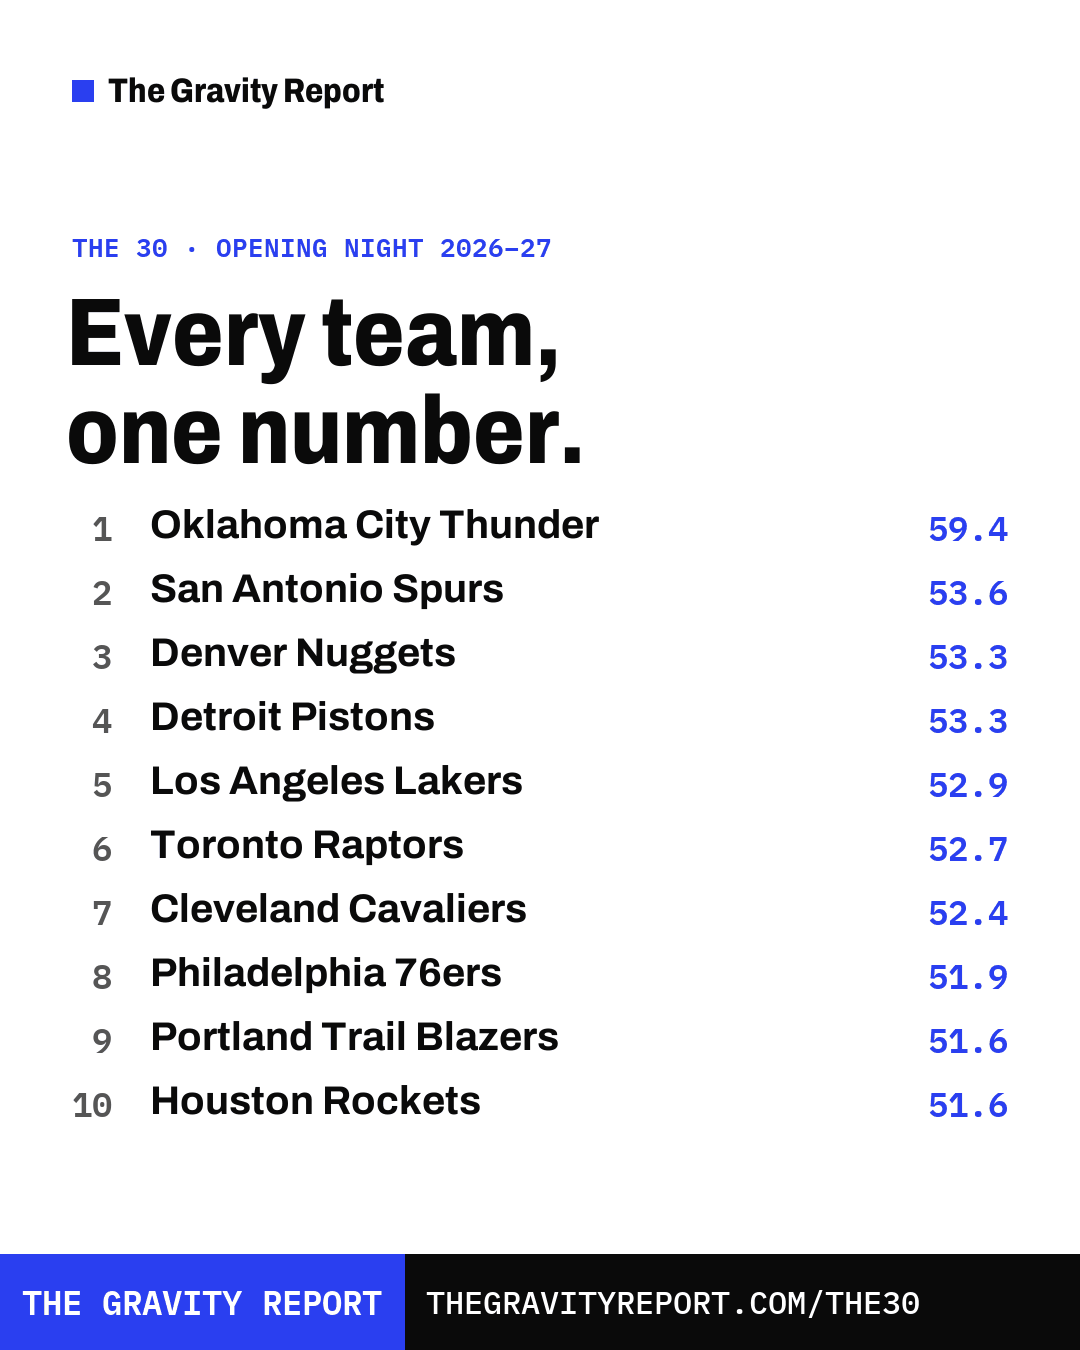
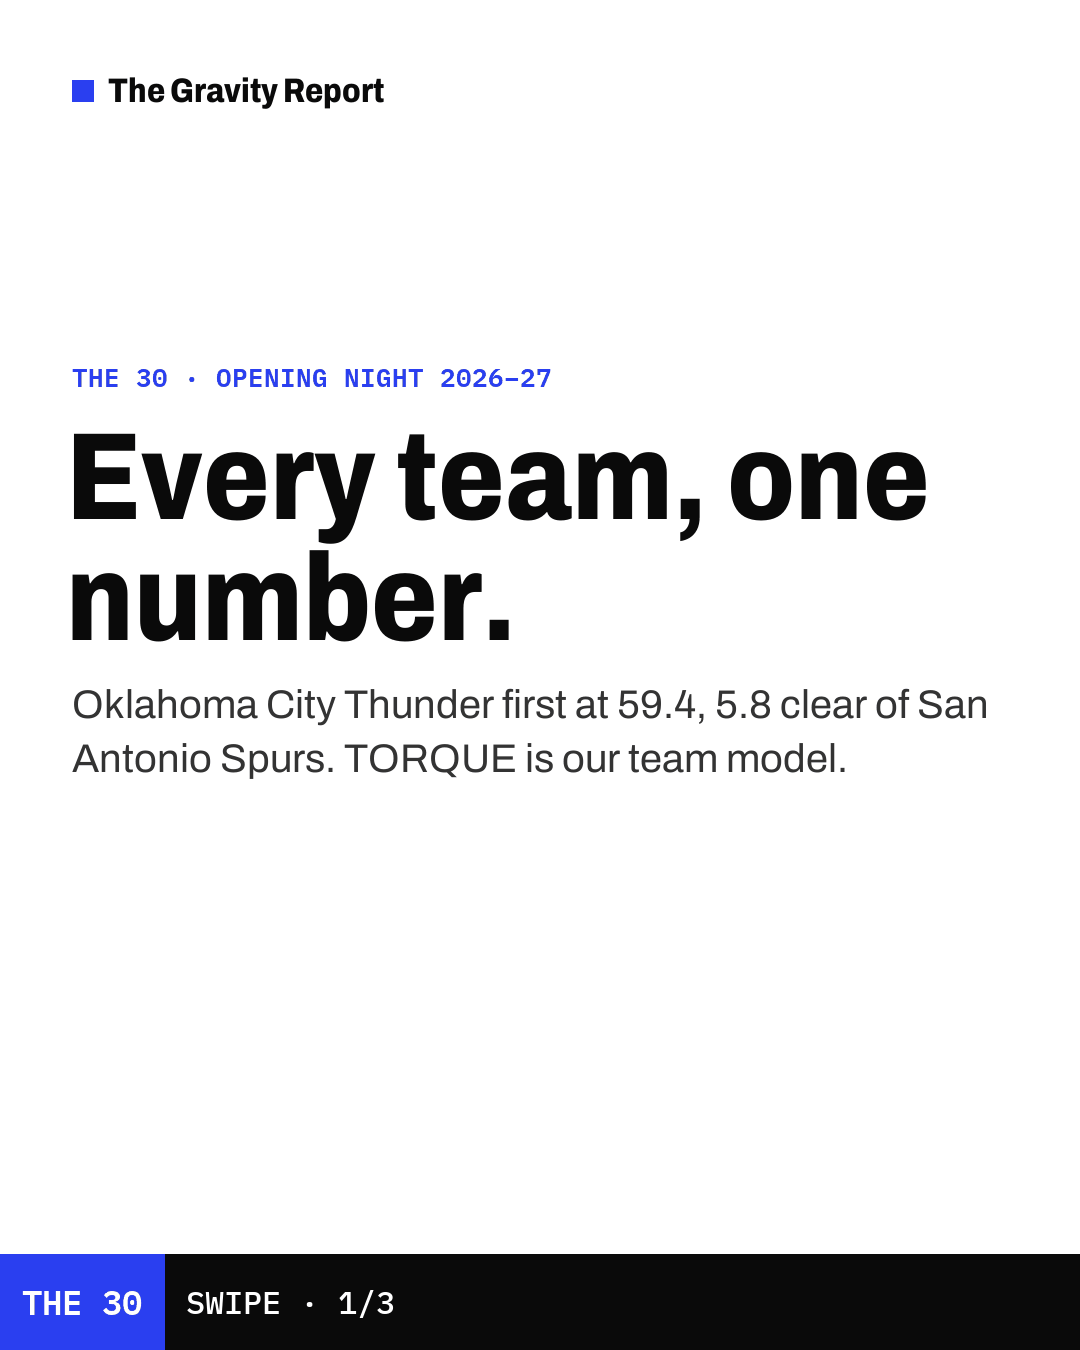
Instagram: carousels instead of single images (team posts 4 slides: cover with the post's angle, table, best-player fact, link; The 30 3 slides); one Instagram post a day (noon article wins over the 6 PM team post); player of the day skips Instagram until it has a Reel

diff --git a/social/pipeline.js b/social/pipeline.js
@@ -161,7 +161,9 @@ export async function maybeQueuePotd(env, nowMs, { fetchImpl = fetch, schedule =
   if (!best) { await mark("no big night"); return null; }
   const kit = potdKitFromPerformance(best.p, best.p.team, best.g, SITE_URL, n);
   const at = Math.max(nowMs, etToUtcMs(date, POTD_HOUR_ET));
-  await queueSeries(env, kitId, kit, at, nowMs);
+  // No Instagram for player of the day until it has a format of its own (a Reel): a single card
+  // image does nothing on Instagram, and it's posted by hand.
+  await queueSeries(env, kitId, kit, at, nowMs, TEXT_SERIES_PLATFORMS);
   await mark(best.p.slug);
   await log(env, nowMs, null, null, "potd_picked", 0, `${best.p.n} (Game Score ${best.gs.toFixed(1)}): ${kit.x_thread[0]}`);
   return kitId;

diff --git a/scripts/social/make_kit.py b/scripts/social/make_kit.py
@@ -577,24 +577,37 @@ def build_team_kit(code, date, outdir=None, images=True):
               f"Every player has a free profile page, and the table filters by team: {url}\n\n"
               "Happy to answer questions about the method in the comments.\n")
     alt = f"The {name} in The 644, top {count} by rank with GRAVITY scores: " + "; ".join(lines) + ". 50 is a league-average minute."
+    torque = next(x for x in load("the30/torque-2026-27.json")["teams"] if x["code"] == TORQUE_CODE.get(code, code))
+    best = top[0]
+    fact_label = (f"{best['n']}'s GRAVITY score, #{best['r']} of 644 and the best on the roster. TORQUE, our team model, "
+                  f"ranks the {name} #{torque['rank']} of 30 at {torque['torque']:.1f}, projecting {torque['wins']:.1f} wins.")
+    carousel = ["ig-1080x1350-1.png", "ig-1080x1350-2.png", "ig-1080x1350-3.png", "ig-1080x1350-4.png"]
     kit = {"kind": "team", "slug": code.lower(), "team": code, "date": date, "url": url,
            "title": f"The 644 on your team: {name}",
            "x_thread": posts, "bluesky_thread": posts, "threads": threads, "instagram_caption": ig,
            "reddit": {"subreddit": sub, "markdown": reddit},
-           "images": {"card": "card-1200x675.png", "carousel": ["ig-1080x1350-1.png"]},
-           "alt": {"card-1200x675.png": alt, "ig-1080x1350-1.png": alt}}
-    torque = next(x for x in load("the30/torque-2026-27.json")["teams"] if x["code"] == TORQUE_CODE.get(code, code))
+           "images": {"card": "card-1200x675.png", "carousel": carousel},
+           "alt": {"card-1200x675.png": alt,
+                   "ig-1080x1350-1.png": f"The 644 on your team: {name}. Cover slide.",
+                   "ig-1080x1350-2.png": alt,
+                   "ig-1080x1350-3.png": f"{best['s']:.1f}: {fact_label}",
+                   "ig-1080x1350-4.png": f"Every {name} player has a free page at thegravityreport.com/the644. Link in bio."}}
     source = (json.dumps(top, ensure_ascii=False) + f" {len(ps)} {name} " + json.dumps(torque, ensure_ascii=False)
               + " " + json.dumps([p for p in ps[8:]], ensure_ascii=False))
-    guard(posts + [threads, ig, reddit, alt], source)
+    guard(posts + [threads, ig, reddit] + list(kit["alt"].values()), source)
     check_limits(kit)
     outdir = outdir or os.path.join(ROOT, "social", "kits", f"{date}-team-{code.lower()}")
     copy_override(kit, os.path.basename(outdir), source)
     write_kit(kit, outdir)
     if images:
         team_card(os.path.join(outdir, "card-1200x675.png"), name, rows)
-        ig_table(os.path.join(outdir, "ig-1080x1350-1.png"), "THE 644 ON YOUR TEAM", name, rows,
-                 "THE 644", "THEGRAVITYREPORT.COM/THE644", "GRAVITY score. 50 is a league-average minute.")
+        # Instagram carousel: cover (the post's own angle), the table, one fact, the link
+        dek = re.split(r"(?<=[.!?])\s", kit["x_thread"][0].strip())[0]
+        ig_cover(os.path.join(outdir, "ig-1080x1350-1.png"), "THE 644 ON YOUR TEAM", name, dek, "THE 644", "1/4")
+        ig_table(os.path.join(outdir, "ig-1080x1350-2.png"), "THE 644 ON YOUR TEAM", name, rows,
+                 "THE 644", "2/4", "GRAVITY score. 50 is a league-average minute.")
+        ig_fact(os.path.join(outdir, "ig-1080x1350-3.png"), f"{best['s']:.1f}", fact_label, "THE BEST ON THE ROSTER", "3/4")
+        ig_cta(os.path.join(outdir, "ig-1080x1350-4.png"), f"Every {name} player, one number.", "thegravityreport.com/the644", "4/4")
     return kit, outdir
 
 
@@ -686,8 +699,14 @@ def build_the30_kit(date, outdir=None, images=True):
             dr.text((1008, y), f"{x['torque']:.1f}", font=cl.mono(34, 600), fill=cl.ACCENT, anchor="ra")
             y += 64
         cl.band(img, dr, 1350 - 96, 96, "THE GRAVITY REPORT", "THEGRAVITYREPORT.COM/THE30")
-        cl.save(img, os.path.join(outdir, "ig-1080x1350-1.png"))
-        kit["images"]["carousel"] = ["ig-1080x1350-1.png"]
+        cl.save(img, os.path.join(outdir, "ig-1080x1350-2.png"))
+        ig_cover(os.path.join(outdir, "ig-1080x1350-1.png"), "THE 30 · OPENING NIGHT 2026–27", "Every team, one number.",
+                 f"{t[0]['team']} first at {t[0]['torque']:.1f}, {t[0]['torque'] - t[1]['torque']:.1f} clear of {t[1]['team']}. TORQUE is our team model.",
+                 "THE 30", "1/3")
+        ig_cta(os.path.join(outdir, "ig-1080x1350-3.png"), "All 30, with each team's top three players.", "thegravityreport.com/the30", "3/3")
+        kit["images"]["carousel"] = ["ig-1080x1350-1.png", "ig-1080x1350-2.png", "ig-1080x1350-3.png"]
+        kit["alt"].update({"ig-1080x1350-1.png": "The 30: every team, one number. Cover slide.",
+                           "ig-1080x1350-2.png": "The top ten teams by TORQUE.", "ig-1080x1350-3.png": "All 30 at thegravityreport.com/the30. Link in bio."})
         write_kit(kit, outdir)
     return kit, outdir
 

diff --git a/scripts/social/make_schedule.py b/scripts/social/make_schedule.py
@@ -163,9 +163,15 @@ def main():
     rows, md = [], ["# Posting schedule", "", "Times are US Eastern. Every row here posts on its own; nothing to approve.",
                     "To change it, ask Claude. Source: `scripts/social/make_schedule.py`.", "",
                     "| When (ET) | Platform | Post | First line |", "|---|---|---|---|"]
-    for item in sorted(plan_rows(), key=lambda r: (r[0], r[1])):
+    items = sorted(plan_rows(), key=lambda r: (r[0], r[1]))
+    # Instagram is posted by hand and rewards one good post over three: on a day with a noon article
+    # carousel, the 6 PM team post skips Instagram.
+    ig_days = {it[0] for it in items if "instagram" in it[2] and (len(it) < 5 or it[4] in (None, "archive"))}
+    for item in items:
         day, hm, platforms, kit_id = item[:4]
         series = item[4] if len(item) > 4 else None
+        if series == "team644" and day in ig_days:
+            platforms = [p for p in platforms if p != "instagram"]
         kit_path = os.path.join(ROOT, "social", "kits", kit_id, "kit.json")
         if not os.path.exists(kit_path):
             sys.exit(f"missing kit: {kit_id}")

diff --git a/tests/test_kits.py b/tests/test_kits.py
@@ -156,7 +156,11 @@ class TeamKitTests(unittest.TestCase):
             self.assertTrue(os.path.exists(os.path.join(ROOT, "social", "kits", r[3], "kit.json")), r[3])
         sched = json.load(open(os.path.join(ROOT, "social", "schedule.json"), encoding="utf-8"))
         tagged = [p for p in sched["posts"] if p.get("series") == "team644"]
-        self.assertEqual(len(tagged), 120)
+        self.assertEqual(len([p for p in tagged if p["platform"] != "instagram"]), 90)
+        # Instagram: at most one post a day across the whole schedule (it's posted by hand)
+        import collections
+        per_day = collections.Counter(p["at"][:10] for p in sched["posts"] if p["platform"] == "instagram" and not p.get("skip"))
+        self.assertLessEqual(max(n for d, n in per_day.items() if d >= "2026-10-23"), 1)
 
 
 class TrackerTests(unittest.TestCase):

diff --git a/social/SCHEDULE.md b/social/SCHEDULE.md
@@ -16,7 +16,6 @@ To change it, ask Claude. Source: `scripts/social/make_schedule.py`.
 | Thu Oct 22, 9:00 PM | X | The 644 on your team: Oklahoma City Thunder | Thunder fans, your team has eight players in the top 113 of The 644, our ranking of all 64… |
 | Thu Oct 22, 9:00 PM | Bluesky | The 644 on your team: Oklahoma City Thunder | Thunder fans, your team has eight players in the top 113 of The 644, our ranking of all 64… |
 | Thu Oct 22, 9:00 PM | Threads | The 644 on your team: Oklahoma City Thunder | Thunder fans, your team has eight players in the top 113 of The 644, our ranking of all 64… |
-| Thu Oct 22, 9:00 PM | Instagram | The 644 on your team: Oklahoma City Thunder | Thunder fans, your team has eight players in the top 113 of The 644, our ranking of all 64… |
 | Fri Oct 23, 12:00 PM | X | The 30 | The 30: every NBA team ranked by TORQUE, our team model. Opening Night 2026–27 update.  1.… |
 | Fri Oct 23, 12:00 PM | Bluesky | The 30 | The 30: every NBA team ranked by TORQUE, our team model. Opening Night 2026–27 update.  1.… |
 | Fri Oct 23, 12:00 PM | Threads | The 30 | The 30: every NBA team ranked by TORQUE, our team model. Opening Night 2026–27 update.  1.… |
@@ -24,7 +23,6 @@ To change it, ask Claude. Source: `scripts/social/make_schedule.py`.
 | Fri Oct 23, 6:00 PM | X | The 644 on your team: San Antonio Spurs | The San Antonio Spurs in The 644, our ranking of every NBA player. The top eight by rank, … |
 | Fri Oct 23, 6:00 PM | Bluesky | The 644 on your team: San Antonio Spurs | The San Antonio Spurs in The 644, our ranking of every NBA player. The top eight by rank, … |
 | Fri Oct 23, 6:00 PM | Threads | The 644 on your team: San Antonio Spurs | The San Antonio Spurs in The 644, our ranking of every NBA player. The top eight by rank, … |
-| Fri Oct 23, 6:00 PM | Instagram | The 644 on your team: San Antonio Spurs | The San Antonio Spurs in The 644, our ranking of every NBA player. The top eight by rank, … |
 | Sat Oct 24, 12:00 PM | X | The Kawhi Anomaly | The season is underway. On October 6, before tip-off, we put four calls on Kawhi Leonard's… |
 | Sat Oct 24, 12:00 PM | Bluesky | The Kawhi Anomaly | The season is underway. On October 6, before tip-off, we put four calls on Kawhi Leonard's… |
 | Sat Oct 24, 12:00 PM | Threads | The Kawhi Anomaly | The season is underway. On October 6, before tip-off, we put four calls on Kawhi Leonard's… |
@@ -32,7 +30,6 @@ To change it, ask Claude. Source: `scripts/social/make_schedule.py`.
 | Sat Oct 24, 6:00 PM | X | The 644 on your team: Denver Nuggets | The Denver Nuggets in The 644, our ranking of every NBA player. The top eight by rank, wit… |
 | Sat Oct 24, 6:00 PM | Bluesky | The 644 on your team: Denver Nuggets | The Denver Nuggets in The 644, our ranking of every NBA player. The top eight by rank, wit… |
 | Sat Oct 24, 6:00 PM | Threads | The 644 on your team: Denver Nuggets | The Denver Nuggets in The 644, our ranking of every NBA player. The top eight by rank, wit… |
-| Sat Oct 24, 6:00 PM | Instagram | The 644 on your team: Denver Nuggets | The Denver Nuggets in The 644, our ranking of every NBA player. The top eight by rank, wit… |
 | Sun Oct 25, 12:00 PM | X | The Last of His Kind | The season is underway. On October 17, before tip-off, we put two calls on Jalen Duren's y… |
 | Sun Oct 25, 12:00 PM | Bluesky | The Last of His Kind | The season is underway. On October 17, before tip-off, we put two calls on Jalen Duren's y… |
 | Sun Oct 25, 12:00 PM | Threads | The Last of His Kind | The season is underway. On October 17, before tip-off, we put two calls on Jalen Duren's y… |
@@ -40,7 +37,6 @@ To change it, ask Claude. Source: `scripts/social/make_schedule.py`.
 | Sun Oct 25, 6:00 PM | X | The 644 on your team: Detroit Pistons | The Detroit Pistons in The 644, our ranking of every NBA player. The top eight by rank, wi… |
 | Sun Oct 25, 6:00 PM | Bluesky | The 644 on your team: Detroit Pistons | The Detroit Pistons in The 644, our ranking of every NBA player. The top eight by rank, wi… |
 | Sun Oct 25, 6:00 PM | Threads | The 644 on your team: Detroit Pistons | The Detroit Pistons in The 644, our ranking of every NBA player. The top eight by rank, wi… |
-| Sun Oct 25, 6:00 PM | Instagram | The 644 on your team: Detroit Pistons | The Detroit Pistons in The 644, our ranking of every NBA player. The top eight by rank, wi… |
 | Mon Oct 26, 9:00 AM | X | Is the model winning? | Is the model winning? Where our 32 open calls stand, as of Oct 22, 2026:  K3 · 30% · Kawhi… |
 | Mon Oct 26, 9:00 AM | Bluesky | Is the model winning? | Is the model winning? Where our 32 open calls stand, as of Oct 22, 2026:  K3 · 30% · Kawhi… |
 | Mon Oct 26, 9:00 AM | Threads | Is the model winning? | Is the model winning? Where our 32 open calls stand, as of Oct 22, 2026:  K3 · 30% · Kawhi… |
@@ -51,7 +47,6 @@ To change it, ask Claude. Source: `scripts/social/make_schedule.py`.
 | Mon Oct 26, 6:00 PM | X | The 644 on your team: Los Angeles Lakers | The Los Angeles Lakers in The 644, our ranking of every NBA player. The top eight by rank,… |
 | Mon Oct 26, 6:00 PM | Bluesky | The 644 on your team: Los Angeles Lakers | The Los Angeles Lakers in The 644, our ranking of every NBA player. The top eight by rank,… |
 | Mon Oct 26, 6:00 PM | Threads | The 644 on your team: Los Angeles Lakers | The Los Angeles Lakers in The 644, our ranking of every NBA player. The top eight by rank,… |
-| Mon Oct 26, 6:00 PM | Instagram | The 644 on your team: Los Angeles Lakers | The Los Angeles Lakers in The 644, our ranking of every NBA player. The top eight by rank,… |
 | Tue Oct 27, 12:00 PM | X | The Queta Problem | The season is underway. On July 10, before tip-off, we put two calls on Neemias Queta's ye… |
 | Tue Oct 27, 12:00 PM | Bluesky | The Queta Problem | The season is underway. On July 10, before tip-off, we put two calls on Neemias Queta's ye… |
 | Tue Oct 27, 12:00 PM | Threads | The Queta Problem | The season is underway. On July 10, before tip-off, we put two calls on Neemias Queta's ye… |
@@ -59,7 +54,6 @@ To change it, ask Claude. Source: `scripts/social/make_schedule.py`.
 | Tue Oct 27, 6:00 PM | X | The 644 on your team: Toronto Raptors | The Toronto Raptors in The 644, our ranking of every NBA player. The top eight by rank, wi… |
 | Tue Oct 27, 6:00 PM | Bluesky | The 644 on your team: Toronto Raptors | The Toronto Raptors in The 644, our ranking of every NBA player. The top eight by rank, wi… |
 | Tue Oct 27, 6:00 PM | Threads | The 644 on your team: Toronto Raptors | The Toronto Raptors in The 644, our ranking of every NBA player. The top eight by rank, wi… |
-| Tue Oct 27, 6:00 PM | Instagram | The 644 on your team: Toronto Raptors | The Toronto Raptors in The 644, our ranking of every NBA player. The top eight by rank, wi… |
 | Wed Oct 28, 12:00 PM | X | The Rise and Fall of Ja Morant | The season is underway. On July 10, we took a hard look at Ja Morant. Here's what we found… |
 | Wed Oct 28, 12:00 PM | Bluesky | The Rise and Fall of Ja Morant | The season is underway. On July 10, we took a hard look at Ja Morant. Here's what we found… |
 | Wed Oct 28, 12:00 PM | Threads | The Rise and Fall of Ja Morant | The season is underway. On July 10, we took a hard look at Ja Morant. Here's what we found… |
@@ -67,7 +61,6 @@ To change it, ask Claude. Source: `scripts/social/make_schedule.py`.
 | Wed Oct 28, 6:00 PM | X | The 644 on your team: Cleveland Cavaliers | The Cleveland Cavaliers in The 644, our ranking of every NBA player. The top eight by rank… |
 | Wed Oct 28, 6:00 PM | Bluesky | The 644 on your team: Cleveland Cavaliers | The Cleveland Cavaliers in The 644, our ranking of every NBA player. The top eight by rank… |
 | Wed Oct 28, 6:00 PM | Threads | The 644 on your team: Cleveland Cavaliers | The Cleveland Cavaliers in The 644, our ranking of every NBA player. The top eight by rank… |
-| Wed Oct 28, 6:00 PM | Instagram | The 644 on your team: Cleveland Cavaliers | The Cleveland Cavaliers in The 644, our ranking of every NBA player. The top eight by rank… |
 | Thu Oct 29, 6:00 PM | X | The 644 on your team: Philadelphia 76ers | The Philadelphia 76ers in The 644, our ranking of every NBA player. The top eight by rank,… |
 | Thu Oct 29, 6:00 PM | Bluesky | The 644 on your team: Philadelphia 76ers | The Philadelphia 76ers in The 644, our ranking of every NBA player. The top eight by rank,… |
 | Thu Oct 29, 6:00 PM | Threads | The 644 on your team: Philadelphia 76ers | The Philadelphia 76ers in The 644, our ranking of every NBA player. The top eight by rank,… |
@@ -87,7 +80,6 @@ To change it, ask Claude. Source: `scripts/social/make_schedule.py`.
 | Sun Nov 1, 6:00 PM | X | The 644 on your team: Boston Celtics | The Boston Celtics in The 644, our ranking of every NBA player. The top eight by rank, wit… |
 | Sun Nov 1, 6:00 PM | Bluesky | The 644 on your team: Boston Celtics | The Boston Celtics in The 644, our ranking of every NBA player. The top eight by rank, wit… |
 | Sun Nov 1, 6:00 PM | Threads | The 644 on your team: Boston Celtics | The Boston Celtics in The 644, our ranking of every NBA player. The top eight by rank, wit… |
-| Sun Nov 1, 6:00 PM | Instagram | The 644 on your team: Boston Celtics | The Boston Celtics in The 644, our ranking of every NBA player. The top eight by rank, wit… |
 | Mon Nov 2, 6:00 PM | X | The 644 on your team: New York Knicks | The New York Knicks in The 644, our ranking of every NBA player. The top eight by rank, wi… |
 | Mon Nov 2, 6:00 PM | Bluesky | The 644 on your team: New York Knicks | The New York Knicks in The 644, our ranking of every NBA player. The top eight by rank, wi… |
 | Mon Nov 2, 6:00 PM | Threads | The 644 on your team: New York Knicks | The New York Knicks in The 644, our ranking of every NBA player. The top eight by rank, wi… |
@@ -119,7 +111,6 @@ To change it, ask Claude. Source: `scripts/social/make_schedule.py`.
 | Sun Nov 8, 6:00 PM | X | The 644 on your team: Indiana Pacers | The Indiana Pacers in The 644, our ranking of every NBA player. The top eight by rank, wit… |
 | Sun Nov 8, 6:00 PM | Bluesky | The 644 on your team: Indiana Pacers | The Indiana Pacers in The 644, our ranking of every NBA player. The top eight by rank, wit… |
 | Sun Nov 8, 6:00 PM | Threads | The 644 on your team: Indiana Pacers | The Indiana Pacers in The 644, our ranking of every NBA player. The top eight by rank, wit… |
-| Sun Nov 8, 6:00 PM | Instagram | The 644 on your team: Indiana Pacers | The Indiana Pacers in The 644, our ranking of every NBA player. The top eight by rank, wit… |
 | Mon Nov 9, 6:00 PM | X | The 644 on your team: Phoenix Suns | The Phoenix Suns in The 644, our ranking of every NBA player. The top eight by rank, with … |
 | Mon Nov 9, 6:00 PM | Bluesky | The 644 on your team: Phoenix Suns | The Phoenix Suns in The 644, our ranking of every NBA player. The top eight by rank, with … |
 | Mon Nov 9, 6:00 PM | Threads | The 644 on your team: Phoenix Suns | The Phoenix Suns in The 644, our ranking of every NBA player. The top eight by rank, with … |
@@ -151,7 +142,6 @@ To change it, ask Claude. Source: `scripts/social/make_schedule.py`.
 | Sun Nov 15, 6:00 PM | X | The 644 on your team: Utah Jazz | The Utah Jazz in The 644, our ranking of every NBA player. The top eight by rank, with eac… |
 | Sun Nov 15, 6:00 PM | Bluesky | The 644 on your team: Utah Jazz | The Utah Jazz in The 644, our ranking of every NBA player. The top eight by rank, with eac… |
 | Sun Nov 15, 6:00 PM | Threads | The 644 on your team: Utah Jazz | The Utah Jazz in The 644, our ranking of every NBA player. The top eight by rank, with eac… |
-| Sun Nov 15, 6:00 PM | Instagram | The 644 on your team: Utah Jazz | The Utah Jazz in The 644, our ranking of every NBA player. The top eight by rank, with eac… |
 | Mon Nov 16, 6:00 PM | X | The 644 on your team: LA Clippers | The LA Clippers in The 644, our ranking of every NBA player. The top eight by rank, with e… |
 | Mon Nov 16, 6:00 PM | Bluesky | The 644 on your team: LA Clippers | The LA Clippers in The 644, our ranking of every NBA player. The top eight by rank, with e… |
 | Mon Nov 16, 6:00 PM | Threads | The 644 on your team: LA Clippers | The LA Clippers in The 644, our ranking of every NBA player. The top eight by rank, with e… |
